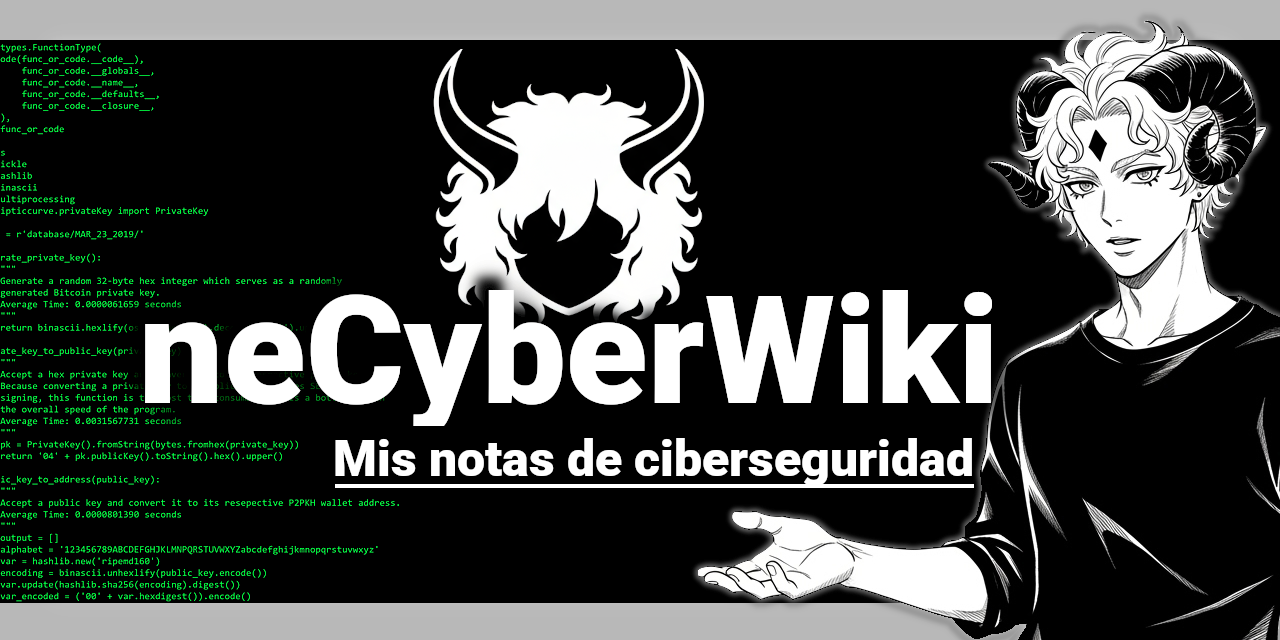
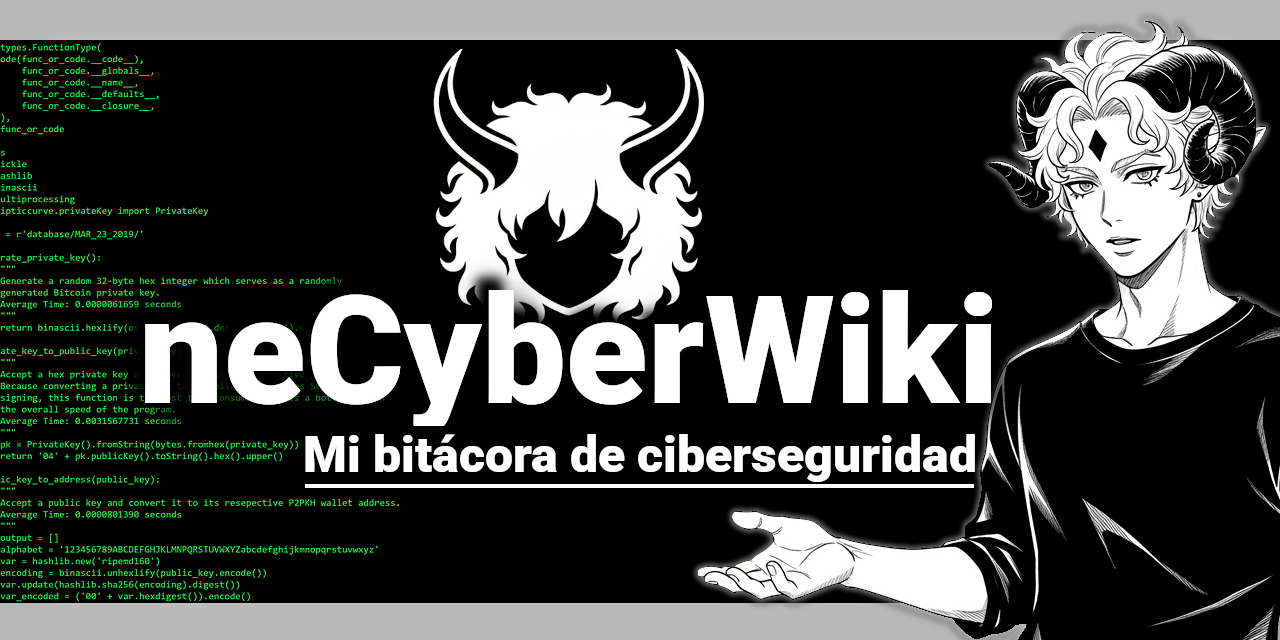
vault backup: 2025-11-07 02:14:29

Changed region(s): [[0.2188, 0.6562, 0.7812, 0.75]]

diff --git a/README.md b/README.md
@@ -1,13 +1,11 @@
+![[content/_assets/og-image.png]]
+> ### Visita la [Página Web](https://netenebraes.github.io/neCyberWiki/).
 
+La neCyberWiki es un proyecto tipo "Biblioteca Colaborativa" orientada a la ciberseguridad, el hacking ético, la informática y la privacidad digital. Su propósito es **centralizar conocimientos técnicos y prácticos, presentados de forma clara, libre y accesible**. 
 
-# neCyberWiki | Mis notas de Ciberseguridad
-![Repo](https://i.postimg.cc/hj5QHG75/ne-Cyber-Wiki-Repo-Card.png)
-> ### [Visita la Página Web](https://netenebraes.github.io/neCyberWiki/)
-
-La neCyberWiki es un proyecto tipo "Biblioteca Colaborativa" orientada a la ciberseguridad, el hacking ético, la informática y la privacidad digital. Su propósito es **centralizar conocimientos técnicos y prácticos, presentados de forma clara, libre y accesible**. La idea no es que **no vean esto como una "Academia", es más un proyecto nacido de mi necesidad personal por aprender**. Este proyecto me permite tener un foco claro y me obliga a hacer prácticas constantes de las cosas que voy aprendiendo para ser compartido con el mundo. 
+**No es una academia**: es mi bitácora de aprendizaje, donde practico, documento y comparto para que cualquiera pueda aprender y aportar.
 
 ---
-
 ## ⚖ Aviso legal
 
 Todo el contenido de este repositorio tiene fines **educativos y formativos**.  
@@ -16,13 +14,11 @@ Las técnicas, conceptos y ejemplos descritos aquí deben practicarse **únicame
 El uso indebido de la información contenida en necyberwiki fuera de un contexto ético o legal es responsabilidad exclusiva del usuario. Los autores y contribuidores no se hacen responsables de posibles daños, sanciones o consecuencias derivadas del mal uso del material.
 
 ---
-
 ## 🚀 Objetivo
 
 Crear una wiki de referencia para profesionales, estudiantes y entusiastas de la ciberseguridad, ofreciendo contenido técnico, guías prácticas, referencias, herramientas y metodologías de ataque y defensa, todo en un mismo lugar de fácil acceso y mantenimiento.
 
 ---
-
 ## 🧠 Contenido
 
 El repositorio incluye:
@@ -35,7 +31,6 @@ El repositorio incluye:
 - Recursos educativos gratuitos  
 
 ---
-
 ## 🛠 Tecnologías y dependencias
 
 El proyecto está realizado con [Obsidian](https://obsidian.md/) y [Quartz](https://github.com/quartz-scheduler/quartz) pero puede adaptarse fácilmente al motor de documentación de tu preferencia, como:
@@ -47,7 +42,6 @@ El proyecto está realizado con [Obsidian](https://obsidian.md/) y [Quartz](http
 El proceso de documentación está siendo realizado de forma pública en [threads](https://www.threads.com/@netenebrae).
 
 ---
-
 ## 🤝 Contribuciones
 
 Las contribuciones son bienvenidas. Puedes ayudar de las siguientes formas:
@@ -73,7 +67,7 @@ git push origin mejora-o-nueva-guia
 
 Después, abre un [Pull Request](https://github.com/NeTenebraes/neCyberWiki/pulls) con la descripción de tu aporte.
 
-## 🧩 Estilo y pautas de redacción
+### 🧩 Estilo y pautas de redacción
 
 - Prioriza la claridad técnica sobre la extensión  
 - Usa formato Markdown limpio y sin exceso de formato  
@@ -81,15 +75,12 @@ Después, abre un [Pull Request](https://github.com/NeTenebraes/neCyberWiki/pull
 - Evita incluir material con derechos de autor no libres  
 - Respeta la ética hacker: el conocimiento es libre, hacer daño es imperdonable.  
 
-
 ---
-
 ## 📜 Licencia
 
 Este proyecto está distribuido bajo la licencia MIT. Consulta el archivo LICENSE para más detalles.
 
 ---
-
 ## ✨ Agradecimientos
 
 A toda la comunidad hacker y de ciberseguridad que comparte su conocimiento abiertamente.

diff --git a/content/index.md b/content/index.md
@@ -2,11 +2,13 @@
 title: "neCyberWIKI: Misión de Conocimiento Libre 📚"
 tags:
 ---
-> Proyecto creado para la comunidad, diseñado para ser la guía definitiva que te llevará desde cero hasta un nivel competitivo en ciberseguridad.
+> Biblioteca Colaborativa sobre ciberseguridad, hacking ético, informática y privacidad digital. Centralizo conocimiento técnico y práctico, explicado de forma clara, libre y accesible. No es una academia: es mi bitácora de aprendizaje, donde practico, documento y comparto para que cualquiera pueda aprender y aportar.
+
+![[og-image.png]]
 
 ¡Bienvenido/a! Si estás aquí, es porque compartes la pasión por un campo que define nuestro futuro digital.
 
-La **neCyberWIKI** nace de una convicción: **el conocimiento de calidad debe ser universal y accesible**. Este es mi compromiso personal para derribar las barreras de entrada a la Informática y la Ciberseguridad. Aquí comparto mis apuntes profesionales y todo lo que aprendo, de forma 100% técnica, práctica y gratuita.
+La **neCyberWIKI** nace de una convicción: **el conocimiento de calidad debe ser universal y accesible**. Este es mi compromiso personal para derribar las barreras de entrada a la Informática y la Ciberseguridad. Aquí comparto mis apuntes profesionales y todo lo que aprendo, de forma **100% técnica, práctica y gratuita**.
 
 ---
 ## ¿Te sientes abrumado? No estás solo...
@@ -33,9 +35,9 @@ El contenido abarcará desde los fundamentos hasta temas avanzados:
 
 Sencillo, aprender haciendo me funcionó: construí mis propias herramientas y documenté cada atajo, bug y mejora del proceso. 
 
-La neCyberWIKI es mi cuaderno abierto: **notas que apliqué tal cual**, pensadas para pentesting, scripting y privacidad, sin teorías ni promesas vacías. Sigo afinando mis habilidades a diario para objetivos concretos y, sobre todo, porque **el bug bounty me parece divertido**. Aquí comparto lo que realmente me funciona para avanzar.
+La neCyberWIKI es mi cuaderno abierto: **notas que apliqué tal cual**, pensadas para pentesting, scripting y privacidad y  pura practica, nada de promesas vacías. Sigo afinando mis habilidades a diario para objetivos concretos y, sobre todo, porque **todo esto me apasiona**. Aquí comparto lo que realmente me funciona para avanzar.
 
-Esta guía nació de la necesidad de dejar un camino claro para quien quiera aprender ciberseguridad de manera práctica, divertida y accesible. Además, también sirve para recordarme a mi mismo que **no hay excusas**.
+Esta guía nació de la necesidad de dejar un **camino claro para quien quiera aprender ciberseguridad de manera práctica, divertida y accesible**. Además, también sirve para recordarme a mi mismo que **no hay excusas**.
 
 ---
 ## DESARROLLO: Sigue mi Progreso en Threads 🚀
